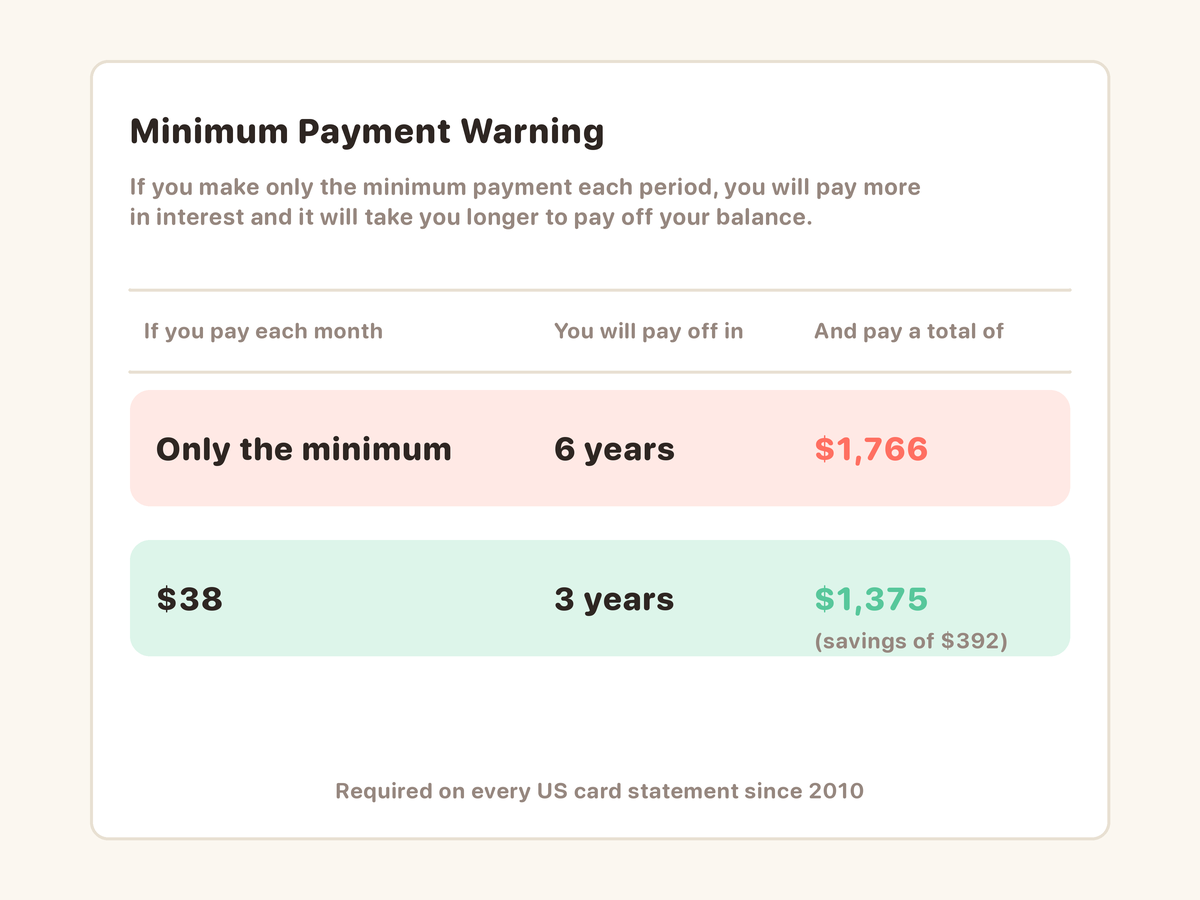
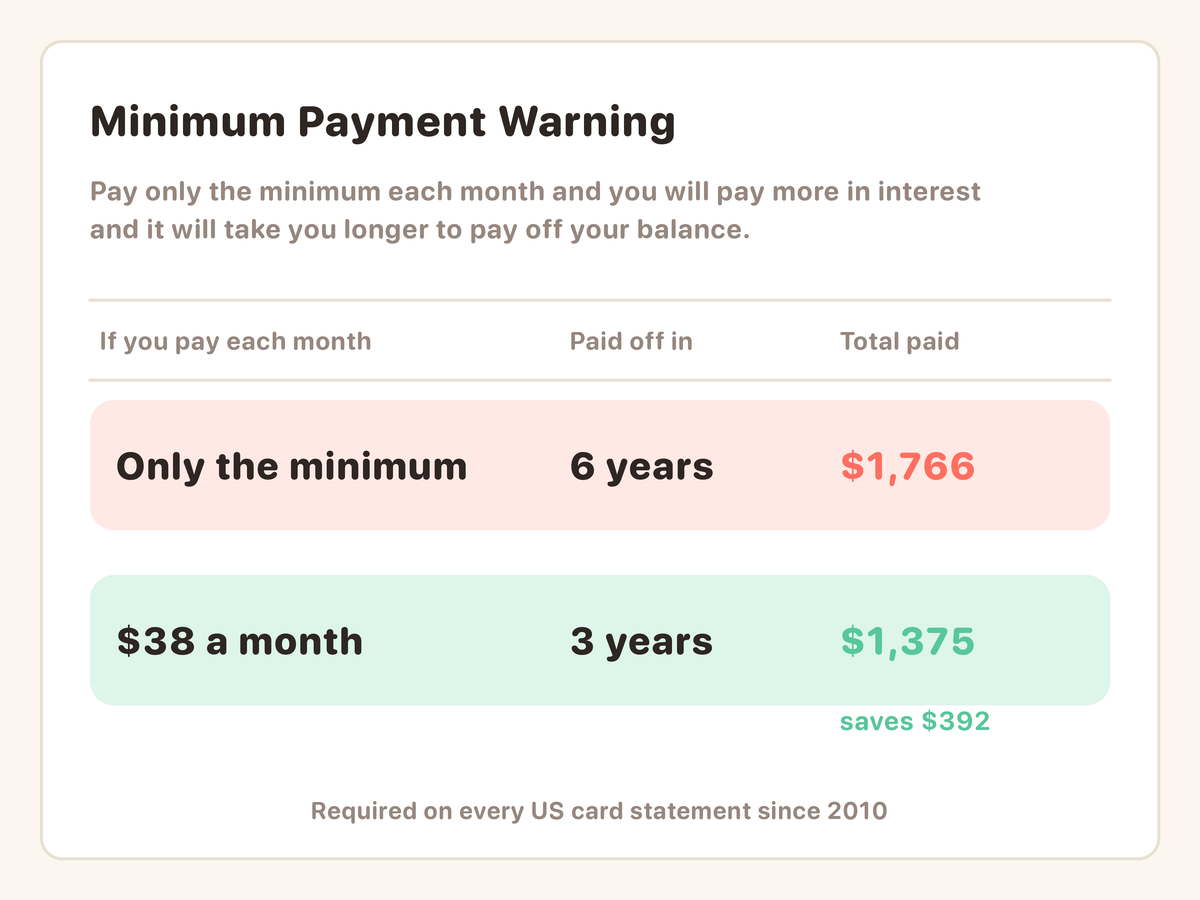
Lesson figures: bigger type on the statement box and the text-message apology
Both were legible at 1200px and too small at card size on the phone.

Changed region(s): [[0.0617, 0.3111, 0.925, 0.8089], [0.0617, 0.0311, 0.9558, 0.28], [0.0617, 0.8711, 0.925, 0.9644]]

diff --git a/design/lesson-art/fin-11/figures.py b/design/lesson-art/fin-11/figures.py
@@ -127,32 +127,29 @@ def two_ways():
 # ---------------------------------------------------------------- 7: the box on the statement
 def warning_box():
     """The Minimum Payment Warning every US card statement has carried since 2010,
-    filled in with this card's numbers."""
+    filled in with this card's numbers. Sized so the words survive the card."""
     c = Canvas()
-    # a sheet of statement paper, slightly rotated feel is skipped; a plain sheet
-    c.rrect(90, 60, 1110, 840, 18, WHITE, outline=FAINT, ow=3)
-    c.text("Minimum Payment Warning", 130, 130, 34, INK, anchor="lm")
-    c.text("If you make only the minimum payment each period, you will pay more", 130, 186, 23, MUTED, "Bold", anchor="lm")
-    c.text("in interest and it will take you longer to pay off your balance.", 130, 216, 23, MUTED, "Bold", anchor="lm")
-    # table
-    cols = [130, 540, 800, 1070]
-    y = 290
-    c.line([(130, y), (1070, y)], FAINT, 3)
-    heads = ["If you pay each month", "You will pay off in", "And pay a total of"]
-    for i, h in enumerate(heads):
-        c.text(h, cols[i] + 14, y + 40, 22, MUTED, "Bold", anchor="lm")
-    y = 372
-    c.line([(130, y), (1070, y)], FAINT, 3)
+    c.rrect(40, 40, 1160, 860, 22, WHITE, outline=FAINT, ow=3)
+    c.text("Minimum Payment Warning", 90, 120, 42, INK, anchor="lm")
+    c.text("Pay only the minimum each month and you will pay more in interest", 90, 190, 27, MUTED, "Bold", anchor="lm")
+    c.text("and it will take you longer to pay off your balance.", 90, 228, 27, MUTED, "Bold", anchor="lm")
+    cols = [90, 560, 830]
+    y = 300
+    c.line([(90, y), (1110, y)], FAINT, 3)
+    for i, h in enumerate(["If you pay each month", "Paid off in", "Total paid"]):
+        c.text(h, cols[i] + 10, y + 40, 25, MUTED, "Bold", anchor="lm")
+    y = 380
+    c.line([(90, y), (1110, y)], FAINT, 3)
     rows = [("Only the minimum", "6 years", money(MIN_PAID), CORAL_SOFT, CORAL),
-            (f"${int(round(THREE_YEAR))}", "3 years", f"{money(TY_PAID)}", MINT_SOFT, MINT)]
+            (f"${int(round(THREE_YEAR))} a month", "3 years", money(TY_PAID), MINT_SOFT, MINT)]
     for r, (a, b, t, soft, col) in enumerate(rows):
-        yy = y + r * 150
-        c.rrect(130, yy + 18, 1070, yy + 134, 20, soft)
-        c.text(a, cols[0] + 26, yy + 76, 32, INK, anchor="lm")
-        c.text(b, cols[1] + 14, yy + 76, 32, INK, anchor="lm")
-        c.text(t, cols[2] + 14, yy + 76, 32, col, anchor="lm")
-    c.text(f"(savings of {money(MIN_PAID - TY_PAID)})", cols[2] + 14, y + 150 + 118, 22, MUTED, "Bold", anchor="lm")
-    c.text("Required on every US card statement since 2010", 600, 790, 22, MUTED, "Bold")
+        yy = y + r * 175
+        c.rrect(90, yy + 20, 1110, yy + 150, 24, soft)
+        c.text(a, cols[0] + 26, yy + 85, 38, INK, anchor="lm")
+        c.text(b, cols[1] + 10, yy + 85, 38, INK, anchor="lm")
+        c.text(t, cols[2] + 10, yy + 85, 38, col, anchor="lm")
+    c.text(f"saves {money(MIN_PAID - TY_PAID)}", cols[2] + 10, y + 175 + 165, 26, MINT, "Bold", anchor="lm")
+    c.text("Required on every US card statement since 2010", 600, 810, 24, MUTED, "Bold")
     c.save(f"{OUT}/fig-07-warning-box.png")
 
 if __name__ == "__main__":

diff --git a/design/lesson-art/ppl-5/figures.py b/design/lesson-art/ppl-5/figures.py
@@ -58,24 +58,23 @@ def wrap(c, s, size, maxw, weight="Bold"):
 
 def text_message():
     c = Canvas()
-    c.text("One in full, by text", 600, 80, 44)
-    # phone
-    c.rrect(300, 150, 900, 860, 60, WHITE, outline=FAINT, ow=5)
-    c.rrect(520, 170, 680, 196, 13, FAINT)
+    c.text("One in full, by text", 600, 70, 44)
+    # a wide phone, cropped to the message so the words stay legible at card size
+    c.rrect(150, 130, 1050, 780, 60, WHITE, outline=FAINT, ow=5)
+    c.rrect(510, 150, 690, 178, 14, FAINT)
     msg = ("I told Maya what you said about the party. That wasn't mine to share, and I get "
            "why you don't want to tell me things right now. I'm not doing that again.")
-    lines = wrap(c, msg, 26, 440)
-    lh = 40; top = 300; h = len(lines) * lh + 50
-    c.rrect(340, top, 850, top + h, 36, SKY)
+    lines = wrap(c, msg, 34, 700)
+    lh = 52; top = 240; h = len(lines) * lh + 60
+    c.rrect(190, top, 1010, top + h, 44, SKY)
     for i, ln in enumerate(lines):
-        c.text(ln, 370, top + 40 + i * lh, 26, WHITE, "Bold", anchor="lm")
-    # the three parts, tagged under the bubble
-    y = top + h + 50
+        c.text(ln, 230, top + 52 + i * lh, 34, WHITE, "Bold", anchor="lm")
+    y = top + h + 60
     for i, (label, col) in enumerate((("what I did", CORAL), ("what it cost", GOLD), ("what changes", MINT))):
-        x = 360 + i * 170
-        c.dot(x, y, 12, col)
-        c.text(label, x + 24, y, 22, MUTED, "Bold", anchor="lm")
-    c.text("No but. No if. No excuses.", 600, 800, 26, MUTED, "Bold")
+        x = 220 + i * 270
+        c.dot(x, y, 14, col)
+        c.text(label, x + 28, y, 26, MUTED, "Bold", anchor="lm")
+    c.text("No but. No if. No excuses.", 600, 700, 28, MUTED, "Bold")
     c.save(f"{OUT}/fig-07-text.png")
 
 if __name__ == "__main__":
